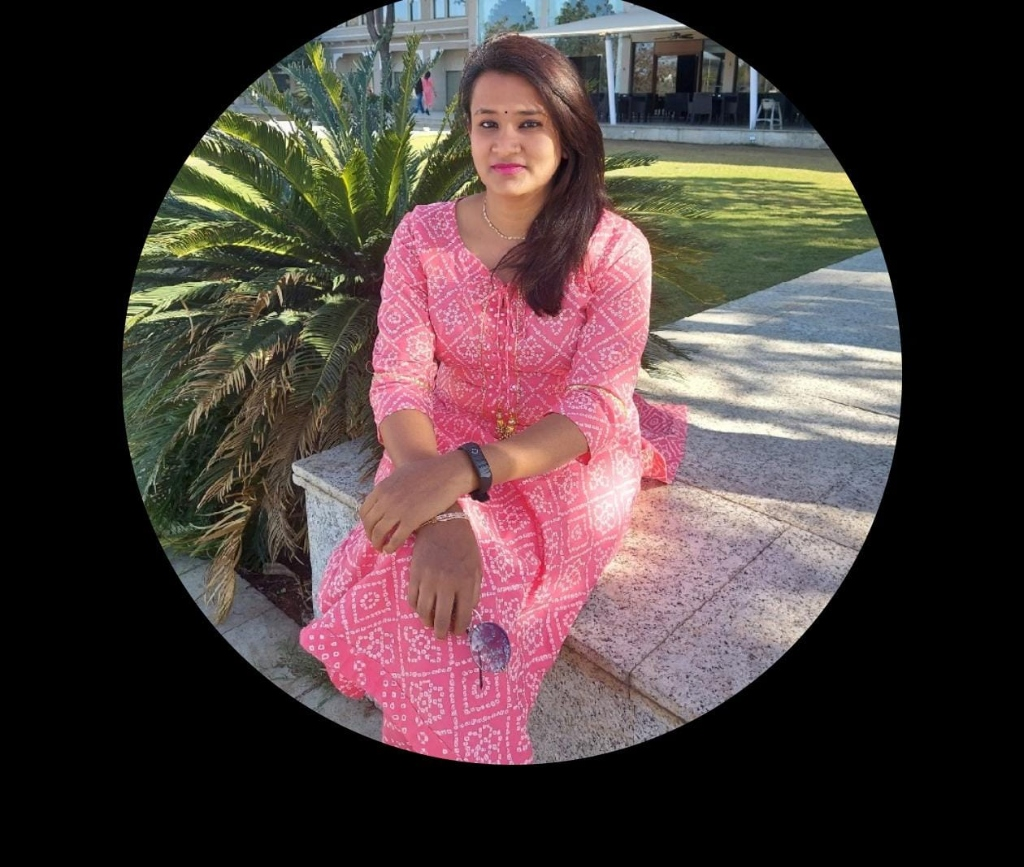
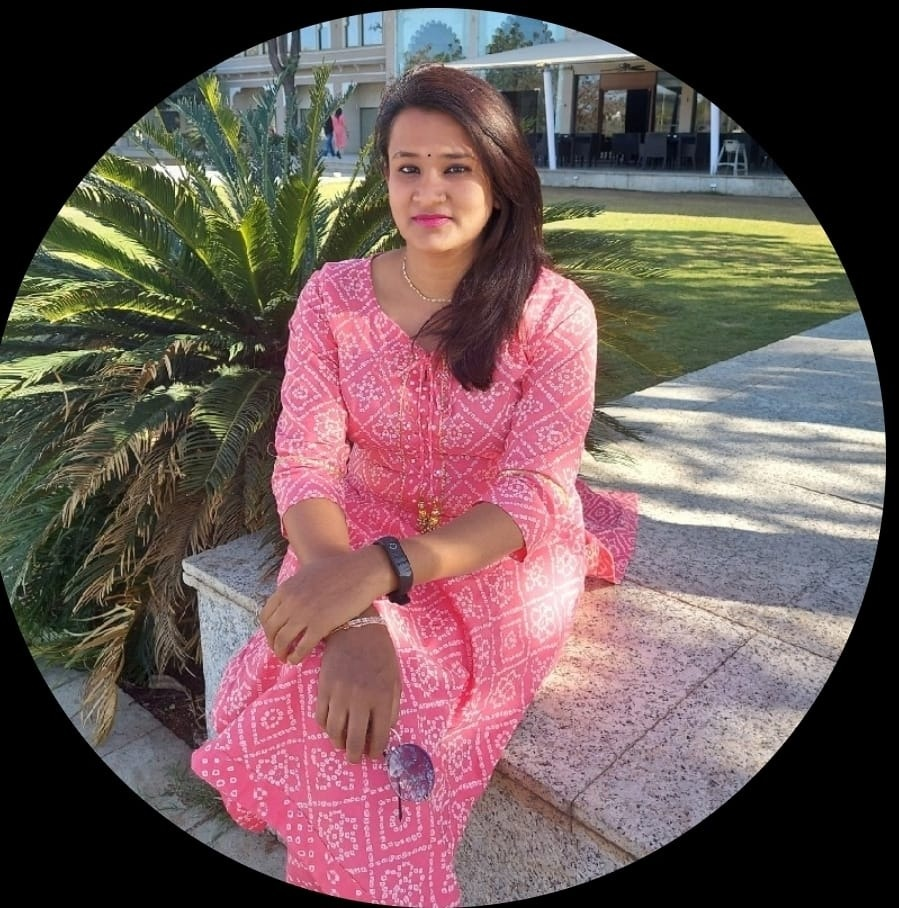
feat: add speaker Dr. Sanjay Kumar, add photo for Ramesh Kumar, update photos for Gunjan and Uttam, and format Center for Converging Technologies heading

diff --git a/index.html b/index.html
@@ -6,9 +6,9 @@
   <title>CONVERGENCE 2026 | Center For Converging Technologies | University of Rajasthan</title>
   
   <!-- SEO Meta Tags -->
-  <meta name="description" content="CONVERGENCE 2026: National Symposium on Emerging Frontiers in Nanotechnology, Biotechnology, Cognitive Neuroscience and Artificial Intelligence. Organized by Center For Converging Technologies (CCT), University of Rajasthan, Jaipur. 28-29 November 2026.">
+  <meta name="description" content="CONVERGENCE 2026: National Symposium on Emerging Frontiers in Nanotechnology, Biotechnology, Cognitive Neuroscience and Artificial Intelligence. Organized by Center for Converging Technologies (CCT), University of Rajasthan, Jaipur. 28-29 November 2026.">
   <meta name="keywords" content="Convergence 2026, CCT Jaipur, Center For Converging Technologies, University of Rajasthan, Nanotechnology, Biotechnology, Cognitive Neuroscience, Artificial Intelligence, Deepak Sharma, JDF, Nurolab, Academic Symposium">
-  <meta name="author" content="Center For Converging Technologies (CCT), University of Rajasthan">
+  <meta name="author" content="Center for Converging Technologies (CCT), University of Rajasthan">
   <meta name="theme-color" content="#0c2340">
   <link rel="canonical" href="https://sarthak2633u.github.io/convergence26.github.io/">
   
@@ -122,17 +122,17 @@
           
           <!-- Official CCT Emblem (Authentic Triangular Prism) -->
           <div class="relative w-16 h-16 sm:w-20 sm:h-20 flex-shrink-0 flex items-center justify-center">
-            <img src="cct-logo.png" alt="Center For Converging Technologies (CCT) Emblem" class="w-full h-full object-contain filter drop-shadow-sm">
+            <img src="cct-logo.png" alt="Center for Converging Technologies (CCT) Emblem" class="w-full h-full object-contain filter drop-shadow-sm">
           </div>
 
           <div>
             <div class="flex items-center gap-2 justify-center md:justify-start">
-              <h2 class="text-base sm:text-xl font-bold text-univNavy tracking-tight uppercase">
-                Center For Converging Technologies (CCT)
+              <h2 class="text-base sm:text-xl font-bold text-univNavy tracking-tight">
+                Center for Converging Technologies (CCT)
               </h2>
             </div>
             <p class="text-xs sm:text-sm text-slate-700 font-semibold">
-              UNIVERSITY OF RAJASTHAN, JAIPUR
+              University of Rajasthan, Jaipur
             </p>
           </div>
         </div>
@@ -236,7 +236,7 @@
           </h2>
 
           <p class="text-xs sm:text-sm text-slate-300 leading-relaxed font-sans pt-1">
-            Organized by <strong>Center For Converging Technologies (CCT), UNIVERSITY OF RAJASTHAN, JAIPUR</strong>. Bringing together eminent scientists, international researchers, distinguished alumni, and scholars in both <strong>offline and online mode</strong>.
+            Organized by <strong>Center for Converging Technologies (CCT), University of Rajasthan, Jaipur</strong>. Bringing together eminent scientists, international researchers, distinguished alumni, and scholars in both <strong>offline and online mode</strong>.
           </p>
 
           <!-- 4 Vertical Badges from Poster -->
@@ -1203,7 +1203,7 @@
               <a href="https://www.linkedin.com/in/ramesh-kumar-4ab915a1" target="_blank" rel="noopener noreferrer" class="inline-flex items-center gap-1 text-[11px] font-semibold text-[#0a66c2] hover:text-[#004182] bg-blue-50/80 px-2 py-0.5 rounded border border-blue-200 transition-colors"><i data-lucide="linkedin" class="w-3 h-3"></i> LinkedIn &#x2197;</a>
             </div>
             <div class="flex items-center gap-3.5 mb-2.5">
-              <div class="w-14 h-14 rounded-full bg-linear-to-br from-cyan-900 to-cyan-700 text-white font-bold flex items-center justify-center text-sm border-2 border-cyan-300 shadow-xs flex-shrink-0">RK</div>
+              <img src="speakers/ramesh-kumar.jpg" alt="Ramesh Kumar" class="w-14 h-14 rounded-full object-cover border-2 border-cyan-400/80 shadow-xs flex-shrink-0">
               <div class="min-w-0 flex-1">
                 <h4 class="font-bold text-univNavy text-base leading-snug">Ramesh Kumar</h4>
                 <p class="text-xs font-semibold text-slate-700 leading-tight">Himadri Speciality Chemical Ltd.</p>
@@ -1211,6 +1211,27 @@
             </div>
             <p class="text-xs text-slate-600 mt-2 leading-relaxed">
               Expertise in advanced carbon materials, industrial chemical innovations, and high-performance material applications supporting clean energy and industrial sustainability.
+            </p>
+          </div>
+        </div>
+
+        <!-- Speaker: Dr. Sanjay Kumar -->
+        <div class="academic-card p-5 rounded-xl border border-slate-200 flex flex-col justify-between">
+          <div>
+            <div class="flex items-center justify-between gap-2 mb-3">
+              <span class="text-[10px] font-mono font-bold text-emerald-800 bg-emerald-50 px-2 py-0.5 rounded uppercase border border-emerald-200">NFSU • Food Technology</span>
+              <a href="https://www.linkedin.com/in/dr-sanjay-k-pratap-singh-073734111" target="_blank" rel="noopener noreferrer" class="inline-flex items-center gap-1 text-[11px] font-semibold text-[#0a66c2] hover:text-[#004182] bg-blue-50/80 px-2 py-0.5 rounded border border-blue-200 transition-colors"><i data-lucide="linkedin" class="w-3 h-3"></i> LinkedIn &#x2197;</a>
+            </div>
+            <div class="flex items-center gap-3.5 mb-2.5">
+              <img src="speakers/sanjay-kumar.jpg" alt="Dr. Sanjay Kumar" class="w-14 h-14 rounded-full object-cover border-2 border-emerald-400/80 shadow-xs flex-shrink-0">
+              <div class="min-w-0 flex-1">
+                <h4 class="font-bold text-univNavy text-base leading-snug">Dr. Sanjay Kumar</h4>
+                <p class="text-xs font-semibold text-slate-700 leading-tight">Programme Head - Food Technology, School of Pharmacy</p>
+                <p class="text-[11px] text-slate-500">National Forensic Sciences University, Gandhinagar</p>
+              </div>
+            </div>
+            <p class="text-xs text-slate-600 mt-2 leading-relaxed">
+              Leading research in food technology, advanced nutraceuticals, food forensics, and translational biotechnology applications at National Forensic Sciences University (NFSU), Gandhinagar.
             </p>
           </div>
         </div>
@@ -1668,7 +1689,7 @@
             <span class="font-bold text-white tracking-wide">CONVERGENCE 2026</span>
           </div>
           <p class="text-slate-400 leading-relaxed text-[11px]">
-            Center For Converging Technologies (CCT)<br>
+            Center for Converging Technologies (CCT)<br>
             University of Rajasthan, JLN Marg, Jaipur, Rajasthan 302004, India.
           </p>
         </div>
@@ -1710,7 +1731,7 @@
 
       <div class="border-t border-slate-700 pt-6 flex flex-col sm:flex-row items-center justify-between text-[11px] text-slate-400">
         <div>
-          &copy; 2026 Center For Converging Technologies (CCT), University of Rajasthan. All rights reserved.
+          &copy; 2026 Center for Converging Technologies (CCT), University of Rajasthan. All rights reserved.
         </div>
         <div class="mt-2 sm:mt-0 flex items-center space-x-4">
           <a href="https://www.uniraj.ac.in/" class="hover:text-white">Institutional Portal</a>
